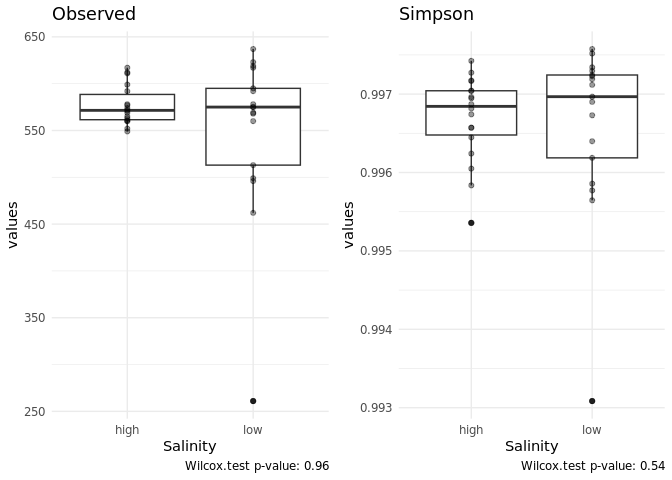
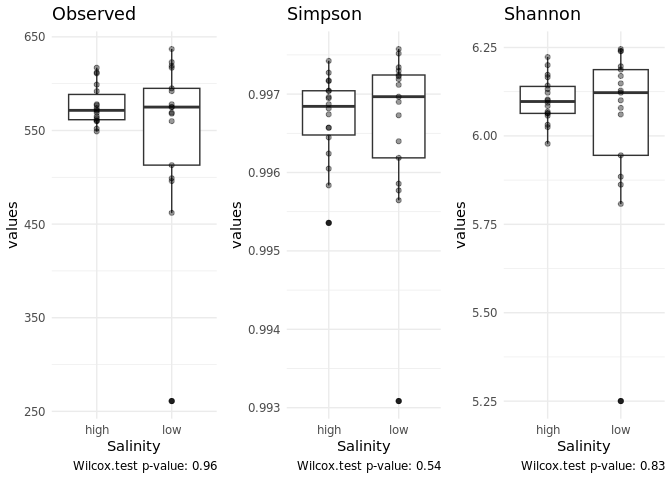
Pulkovo report

diff --git a/Pulkovo/Diversity.md b/Pulkovo/Diversity.md
@@ -108,7 +108,7 @@ plot_alpha <- function(ps) {
   
   alpha_div <- function(ps){
     ps <- prune_taxa(taxa_sums(ps) > 0, ps)
-    obs_sim <- estimate_richness(ps, measures = c("Observed", "Simpson"))
+    obs_sim <- estimate_richness(ps, measures = c("Observed", "Simpson", "Shannon"))
     Salinity <- ps@sam_data$salinity
     alpha <- cbind(obs_sim, Salinity)
     return(alpha)
@@ -120,6 +120,7 @@ plot_alpha <- function(ps) {
   
   obs <- wilcox.test(values ~ Salinity, data = alpha %>% filter(index == 'Observed'))
   simps <- wilcox.test(values ~ Salinity, data = alpha %>% filter(index == 'Simpson'))
+  shann <- wilcox.test(values ~ Salinity, data = alpha %>% filter(index == 'Shannon'))
   
   p1 <- ggplot(alpha %>% filter(index == 'Observed'), aes(x=Salinity, y=values)) + 
     geom_boxplot() +
@@ -133,7 +134,13 @@ plot_alpha <- function(ps) {
     theme_minimal() +
     labs(title = "Simpson", caption = paste("Wilcox.test p-value:", round(simps$p.value, 2)))
   
-  ggarrange(p1, p2)
+  p3 <- ggplot(alpha %>% filter(index == 'Shannon'), aes(x=Salinity, y=values)) + 
+    geom_boxplot() +
+    geom_point(alpha=0.4) +
+    theme_minimal() +
+    labs(title = "Shannon", caption = paste("Wilcox.test p-value:", round(shann$p.value, 2)))
+  
+  ggarrange(p1, p2, p3, ncol=3)
 }
 
 plot_alpha(ps.all)
